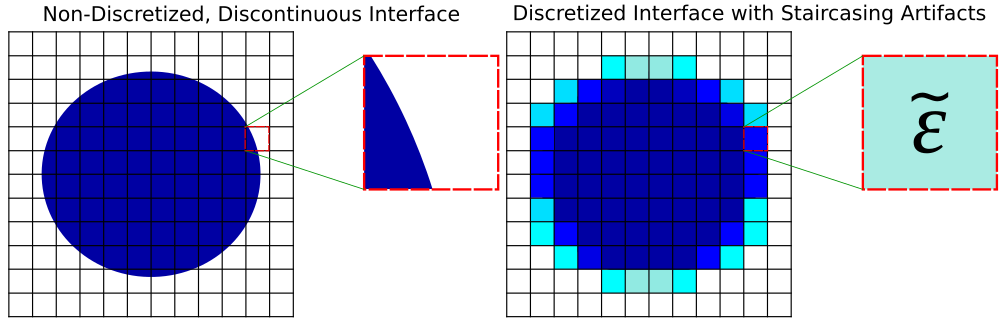
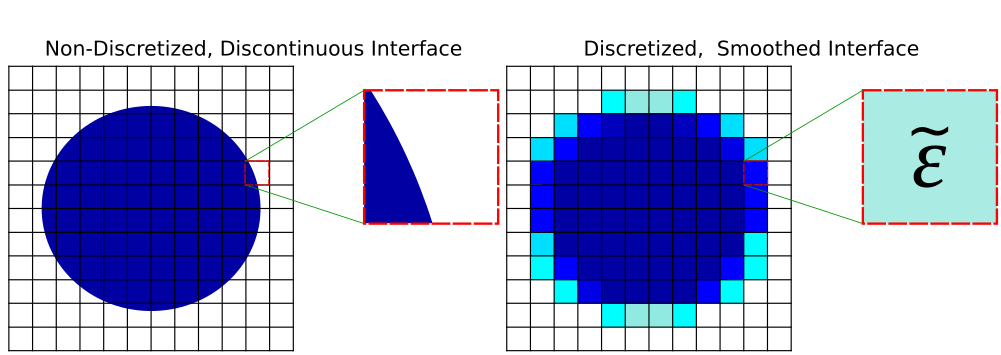
additional notes for supbixel smoothing in docs

diff --git a/doc/docs/Subpixel_Smoothing.md b/doc/docs/Subpixel_Smoothing.md
@@ -2,13 +2,23 @@
 # Subpixel Smoothing
 ---
 
-Meep uses a [second-order accurate finite-difference scheme](https://en.wikipedia.org/wiki/Finite_difference_method#Accuracy_and_order) for discretizing [Maxwell's equations](Introduction.md#maxwells-equations). This means that the results from Meep converge to the "exact" result from the non-discretized (i.e., continuous) system quadratically with the grid resolution $\Delta x$. However, this second-order error $\mathcal{O}(\Delta x^2)$ is generally spoiled to first-order error $\mathcal{O}(\Delta x)$ if the discretization involves a *discontinuous* material boundary (similar to [Gibbs phenomenon](https://en.wikipedia.org/wiki/Gibbs_phenomenon) in signal processing). Moreover, directly discretizing a discontinuity in $\varepsilon$ or $\mu$ leads to "stairstepped" interfaces that can only be varied in discrete jumps of one pixel. Meep solves both of these problems by smoothing $\varepsilon$ and $\mu$: before discretizing, discontinuities are smoothed into continuous transitions over a distance of one pixel $\Delta x$, using a second-order accurate averaging procedure summarized [below](#smoothed-permittivity-tensor-via-perturbation-theory). This subpixel smoothing enables the discretized solution to converge as quickly as possible to the exact solution as the `resolution` increases.
+Meep uses a [second-order accurate finite-difference scheme](https://en.wikipedia.org/wiki/Finite_difference_method#Accuracy_and_order) for discretizing [Maxwell's equations](Introduction.md#maxwells-equations). This means that the results from Meep converge to the "exact" result from the non-discretized (i.e., continuous) system quadratically with the grid resolution $\Delta x$. However, this second-order error $\mathcal{O}(\Delta x^2)$ is generally spoiled to first-order error $\mathcal{O}(\Delta x)$ if the discretization involves a *discontinuous* material boundary. Moreover, directly discretizing a discontinuity in $\varepsilon$ or $\mu$ leads to "stairstepped" interfaces that can only be varied in discrete jumps of one voxel. Meep solves both of these problems by smoothing $\varepsilon$ and $\mu$: before discretizing, discontinuities are smoothed into continuous transitions over a distance of one voxel $\Delta x$, using a second-order accurate averaging procedure summarized [below](#smoothed-permittivity-tensor-via-perturbation-theory). Subpixel smoothing, illustrated in the following schematic, enables the discretized solution to converge as quickly as possible to the exact solution as the `resolution` increases.
 
 <center>
 ![](images/subpixel_smoothing.png)
 </center>
 
-The subpixel smoothing has four limitations: (1) it only applies to frequency-independent, lossless dielectrics (i.e., silicon at $\lambda=1.55$ μm); dispersive materials are [not supported](FAQ.md#can-subpixel-averaging-be-applied-to-dispersive-materials), (2) it can be efficiently applied to [`GeometricObject`](Python_User_Interface.md#geometricobject)s (i.e. `Block`, `Prism`, `Sphere`, etc.) but [*not* to a user-defined `material function`](FAQ.md#can-subpixel-averaging-be-applied-to-a-user-defined-material-function) which is [disabled by default](#enabling-averaging-for-material-function), (3) objects with sharp corners or edges are associated with field singularities which introduce an unavoidable error intermediate between first- and second-order, and (4) the fields directly *on* the interface are still at best first-order accurate. The improved accuracy from smoothing is therefore obtained for fields evaluated off of the interface as in the [scattered Poynting flux](Python_Tutorials/Basics.md#transmittance-spectrum-of-a-waveguide-bend) integrated over a surface away from the interface, for nonlocal properties such as [resonant frequencies](Python_Tutorials/Resonant_Modes_and_Transmission_in_a_Waveguide_Cavity.md#resonant-modes), and for overall integrals of fields and energies to which the interface contributes only $\mathcal{O}(\Delta x)$ of the integration domain.
+However, subpixel smoothing has five limitations:
+
+1. It only applies to frequency-independent, lossless dielectrics (i.e., silicon at $\lambda=1.55$ μm); dispersive materials are [not supported](FAQ.md#can-subpixel-averaging-be-applied-to-dispersive-materials). For materials with a complex-refractive index, the imaginary part is simply ignored. For materials with a frequency-dependent $\varepsilon$, only $\varepsilon_\infty$ (i.e., the infinite frequency or instantaneous response) is used. Anisotropic materials are supported.
+
+2. It can be efficiently applied to [`GeometricObject`](Python_User_Interface.md#geometricobject)s (i.e. `Block`, `Prism`, `Sphere`, etc.) which are based on a [level-set function](https://en.wikipedia.org/wiki/Level-set_method) but [*not* to a user-defined `material function`](FAQ.md#can-subpixel-averaging-be-applied-to-a-user-defined-material-function) which is [disabled by default](#enabling-averaging-for-material-function).
+
+3. Objects with sharp corners or edges are associated with field singularities which introduce an unavoidable error intermediate between first and second order.
+
+4. The fields directly on the interface are still at best first-order accurate. The improved accuracy from smoothing is therefore obtained for fields evaluated off of the interface as in the [scattered Poynting flux](Python_Tutorials/Basics.md#transmittance-spectrum-of-a-waveguide-bend) integrated over a surface away from the interface, for nonlocal properties such as [resonant frequencies](Python_Tutorials/Resonant_Modes_and_Transmission_in_a_Waveguide_Cavity.md#resonant-modes), and for overall integrals of fields and energies to which the interface contributes only $\mathcal{O}(\Delta x)$ of the integration domain.
+
+5. It is only valid when the `resolution` is fine enough such that the dielectric interfaces are locally flat within the voxel. At `resolution`s which are coarser than the geometric dimensions, the analytic theory breaks down and subpixel smoothing is no longer guaranteed to improve accuracy.
 
 [TOC]
 
@@ -23,25 +33,25 @@ $$ \tilde{\varepsilon}^{-1} = \textbf{P}\langle\varepsilon^{-1}\rangle + \big(1-
 
 </center>
 
-where $\textbf{P}$ is the projection matrix $P_{ij}=n_{i}n_{j}$ onto the normal $\vec{n}$. The $\langle\cdots\rangle$ denotes an average over the voxel $sΔx\times sΔy\times sΔz$ surrounding the grid point in question where $s$ is a smoothing diameter in grid units equal to 1/`resolution`. (This analysis assumes that the interface is approximately planar throughout the voxel, which will hold in the regime where the voxels are small compared to the geometric feature sizes.) If the initial materials are anisotropic (via `epsilon_diag` and `epsilon_offdiag`), a more complicated formula is used. The key point is that, even if the structure consists entirely of isotropic materials, the discretized structure will use anisotropic materials. Also, the smoothing will transform a discontinuous interface separating $\varepsilon_1$ and $\varepsilon_2$ into a continuously varying interface in the range [$\varepsilon_1$, $\varepsilon_2$]. For interface pixels, Meep computes the effective permittivity tensor automatically at the start of the simulation prior to time stepping via analytic expressions for the filling fraction and local normal vector. For details involving derivation of the effective permittivity tensor and its implementation in Meep/FDTD, see [Optics Letters, Vol. 36, pp. 2972-4 (2006)](https://www.osapublishing.org/ol/abstract.cfm?uri=ol-31-20-2972) and [Optics Letters, Vol. 35, pp. 2778-80 (2009)](https://www.osapublishing.org/abstract.cfm?uri=ol-34-18-2778).
+where $\textbf{P}$ is the projection matrix $P_{ij}=n_{i}n_{j}$ onto the normal $\vec{n}$. The $\langle\cdots\rangle$ denotes an average over the voxel $sΔx\times sΔy\times sΔz$ surrounding the grid point in question where $s$ is a smoothing diameter in grid units equal to 1/`resolution`. (This analysis assumes that the interface is approximately planar throughout the voxel, which will hold in the regime where the voxels are small compared to the geometric feature sizes.) If the initial materials are anisotropic (via `epsilon_diag` and `epsilon_offdiag`), a more complicated formula is used. The key point is that, even if the structure consists entirely of isotropic materials, the discretized structure will use anisotropic materials. Also, the smoothing will transform a discontinuous interface separating $\varepsilon_1$ and $\varepsilon_2$ into a continuously varying interface in the range [$\varepsilon_1$, $\varepsilon_2$]. For interface voxels, Meep computes the effective permittivity tensor automatically at the start of the simulation prior to time stepping via analytic expressions for the filling fraction and local normal vector. For details involving derivation of the effective permittivity tensor and its implementation in Meep/FDTD, see [Optics Letters, Vol. 36, pp. 2972-4 (2006)](https://www.osapublishing.org/ol/abstract.cfm?uri=ol-31-20-2972) and [Optics Letters, Vol. 35, pp. 2778-80 (2009)](https://www.osapublishing.org/abstract.cfm?uri=ol-34-18-2778).
 
 Impact on Runtime Performance
 -----------------------------
 
-Simulations involving subpixel smoothing consume more memory *at the same resolution* than no smoothing because of the additional storage of an anisotropic tensor at boundary voxels.  (In fact, to enable efficient runtime processing, the additional tensor storage is required for every voxel in the enclosing rectangular "chunk" of pixels for that processor.) Each anisotropic tensor is comprised of six floating point numbers (from the symmetric 3$\times$3 matrix). By comparison, no smoothing involves storing only three floating point numbers at all grid points corresponding to the diagonal entries of $\varepsilon$ or $\mu$. Also, anisotropic tensors will tend to slow down the time-stepping rate due to the additional off-diagonal field components that need to be fetched and included when updating each field component.  On the other hand, anisotropic smoothing often allows one to use lower resolution than would be required for the same accuracy without smoothing.
+Simulations involving subpixel smoothing consume more memory *at the same resolution* than no smoothing because of the additional storage of an anisotropic tensor at boundary voxels.  (In fact, to enable efficient runtime processing, the additional tensor storage is required for every voxel in the enclosing rectangular "chunk" of voxels for that processor.) Each anisotropic tensor is comprised of six floating point numbers (from the symmetric 3$\times$3 matrix). By comparison, no smoothing involves storing only three floating point numbers at all grid points corresponding to the diagonal entries of $\varepsilon$ or $\mu$. Also, anisotropic tensors will tend to slow down the time-stepping rate due to the additional off-diagonal field components that need to be fetched and included when updating each field component.  On the other hand, anisotropic smoothing often allows one to use lower resolution than would be required for the same accuracy without smoothing.
 
 In [parallel simulations](Parallel_Meep.md), each [chunk](Chunks_and_Symmetry.md) computes the effective permittivity separately for its owned voxels. This means that the time required for the grid initialization (`set_epsilon` in the output) should typically scale [linearly with the number of processors](FAQ.md#should-i-expect-linear-speedup-from-the-parallel-meep). The same is true even when subpixel smoothing is disabled.
 
 Continuously Varying Shapes and Results
 ---------------------------------------
 
-A key feature of Meep's subpixel smoothing, particularly relevant for shape optimization (i.e., [Applied Physics Letters, Vol. 104, 091121, 2014](https://aip.scitation.org/doi/abs/10.1063/1.4867892) ([pdf](http://ab-initio.mit.edu/~oskooi/papers/Oskooi14_tandem.pdf))), is that continuously varying the `geometry` yields continuously varying results. This is demonstrated for a ring resonator: as the radius increases, the frequency of a resonant $H_z$-polarized mode decreases. Note: unlike the example in [Tutorial/Basics/Modes of a Ring Resonator](Python_Tutorials/Basics.md#modes-of-a-ring-resonator) involving $E_z$-polarized modes where the electric fields are always continuous (i.e., parallel to the interface), this example involves discontinuous fields. Also, the ring geometry contains no sharp corners/edges which tend to produce field singularities that degrade the error. The simulation script is shown below. The inner ring radius is varied from 1.8 to 2.0 μm in gradations of 0.005 μm. The ring width is constant (1 μm). The resolution is 10 pixels/μm. The gradations are therefore well below pixel dimensions.
+A key feature of Meep's subpixel smoothing, particularly relevant for shape optimization (i.e., [Applied Physics Letters, Vol. 104, 091121 (2014)](https://aip.scitation.org/doi/abs/10.1063/1.4867892) ([pdf](http://ab-initio.mit.edu/~oskooi/papers/Oskooi14_tandem.pdf))), is that continuously varying the `geometry` yields continuously varying results. This is demonstrated for a ring resonator: as the radius increases, the frequency of a resonant $H_z$-polarized mode decreases. Note: unlike the example in [Tutorial/Basics/Modes of a Ring Resonator](Python_Tutorials/Basics.md#modes-of-a-ring-resonator) involving $E_z$-polarized modes where the electric fields are always continuous (i.e., parallel to the interface), this example involves discontinuous fields. Also, the ring geometry contains no sharp corners/edges which tend to produce field singularities that degrade the error. The simulation script is shown below. The inner ring radius is varied from 1.8 to 2.0 μm in gradations of 0.005 μm. The ring width is constant (1 μm). The resolution is 10 voxels/μm. The gradations are therefore well below voxel dimensions.
 
 ```py
 import meep as mp
 import numpy as np
 
-resolution = 10         # pixels/μm
+resolution = 10         # voxels/μm
 
 n = 3.4                 # index of waveguide
 w = 1                   # width of waveguide
@@ -90,7 +100,7 @@ for rad in np.arange(1.800,2.001,0.005):
     sim.reset_meep()
 ```
 
-A plot of the resonant frequency versus the ring radius is shown below for subpixel smoothing (red) and no smoothing (blue). Included for reference is the "exact" result (black) computed using *no smoothing* at a resolution of 60 pixels/μm. The no-smoothing result shows "staircasing" effects which are artifacts of the discretization. The subpixel-smoothing result varies continuously with the ring radius similar to the high-resolution result which is at a resolution six times larger. The inset shows the scalar $H_z$ field profile of the resonant mode for a structure with inner radius of 1.9 μm.
+A plot of the resonant frequency versus the ring radius is shown below for subpixel smoothing (red) and no smoothing (blue). Included for reference is the "exact" result (black) computed using *no smoothing* at a resolution of 60 voxels/μm. The no-smoothing result shows "staircasing" effects which are artifacts of the discretization. The subpixel-smoothing result varies continuously with the ring radius similar to the high-resolution result which is at a resolution six times larger. The inset shows the scalar $H_z$ field profile of the resonant mode for a structure with inner radius of 1.9 μm.
 
 This particular resonant mode has a [quality (Q) factor](https://en.wikipedia.org/wiki/Q_factor) of ~10<sup>7</sup> at a frequency of 0.25 and radius of 2.0 μm. This means that roughly 4x10<sup>7</sup> optical periods are required to accurately resolve the field decay due to the Fourier uncertainty relation. Instead, [`Harminv`](Python_User_Interface.md#harminv) can resolve the $Q$ using just ~1000 periods. This is nearly a four orders of magnitude reduction in the run time.
 
@@ -98,7 +108,7 @@ This particular resonant mode has a [quality (Q) factor](https://en.wikipedia.or
 ![](images/ring_vary_radius.png)
 </center>
 
-To compare the convergence rate of the discretization error, the following plot shows the error in the resonant frequency (relative to the "exact" result at a resolution of 300 pixels/μm) as a function of the grid resolution for a ring geometry with a fixed inner radius of 2.0 μm. The no-smoothing results have a linear error due to the stairstepped interface discontinuities. The subpixel-smoothing results have roughly second-order convergence.
+To compare the convergence rate of the discretization error, the following plot shows the error in the resonant frequency (relative to the "exact" result at a resolution of 300 voxels/μm) as a function of the grid resolution for a ring geometry with a fixed inner radius of 2.0 μm. The no-smoothing results have a linear error due to the stairstepped interface discontinuities. The subpixel-smoothing results have roughly second-order convergence.
 
 <center>
 ![](images/ring_subpixel_smoothing_rate.png)

diff --git a/doc/docs/FAQ.md b/doc/docs/FAQ.md
@@ -359,7 +359,7 @@ Subpixel averaging affects pixels that contain **at most one** object interface.
 
 ### Can subpixel averaging be applied to a user-defined material function?
 
-Yes but its performance tends to be slow. Subpixel averaging is performed by default (`eps_averaging=True`) for [`GeometricObject`](Python_User_Interface.md#geometricobject)s (e.g. `Cylinder`, `Block`, `Prism`, etc.) where the material filling fraction and normal vector of boundary pixels, which are used to form the [effective permittivity](Subpixel_Smoothing.md#smoothed-permittivity-tensor-via-perturbation-theory), can be computed analytically. This procedure typically takes a few seconds for a 3d cell. Computing these quantities for a user-defined material function using adaptive numerical integration can be *very* slow (minutes, hours) and also less accurate than the analytic approach. As a result, simulations involving a discontinuous `material_function` may require disabling subpixel averaging (the default) and increasing the `resolution` for accurate results. For an example, see [Subpixel Smoothing/Enabling Averaging for Material Function](Subpixel_Smoothing.md#enabling-averaging-for-material-function).
+Yes but its performance tends to be slow. Subpixel averaging is performed by default (`eps_averaging=True`) for [`GeometricObject`](Python_User_Interface.md#geometricobject)s (e.g. `Cylinder`, `Block`, `Prism`, etc.) where the material filling fraction and normal vector of boundary pixels, which are used to form the [effective permittivity](Subpixel_Smoothing.md#smoothed-permittivity-tensor-via-perturbation-theory), can be computed analytically using a [level-set function](https://en.wikipedia.org/wiki/Level-set_method). This procedure typically takes a few seconds for a 3d cell. Computing these quantities for a user-defined material function using adaptive numerical integration can be *very* slow (minutes, hours) and also less accurate than the analytic approach. As a result, simulations involving a discontinuous `material_function` may require disabling subpixel averaging (the default) and increasing the `resolution` for accurate results. For an example, see [Subpixel Smoothing/Enabling Averaging for Material Function](Subpixel_Smoothing.md#enabling-averaging-for-material-function).
 
 Also, fast and accurate subpixel smoothing is available for the [`MaterialGrid`](Python_User_Interface.md#materialgrid) which is based on an analytic formulation.
 
@@ -388,9 +388,11 @@ For more details on Meep's load balancing features as well as some performance m
 
 ### Why are simulations involving Fourier-transformed fields slow?
 
-The [discrete time Fourier transform](https://en.wikipedia.org/wiki/Discrete-time_Fourier_transform) (DTFT) of the fields, which is necessary for computing the [Poynting flux](Python_User_Interface.md#flux-spectra), [local density of states](Python_User_Interface.md#ldos-spectra) (LDOS), [near to far field transformation](Python_User_Interface.md#near-to-far-field-spectra), etc., is accumulated at every time step for every point in the [FluxRegion](Python_User_Interface.md#fluxregion). The DTFT computation is parallelized but only in the sense that each processor computes the DTFT fields at points in its own [chunk](Chunks_and_Symmetry.md) of the grid. If the division of the grid among processors into approximately equal-sized chunks (which is the default specified by `split_chunks_evenly=True`) allocates most of the points where the DTFT fields are computed to one processor, it is *not* going to parallelize.
+The [discrete time Fourier transform](https://en.wikipedia.org/wiki/Discrete-time_Fourier_transform) (DTFT) of the fields, which is necessary for computing the [Poynting flux](Python_User_Interface.md#flux-spectra), [local density of states](Python_User_Interface.md#ldos-spectra) (LDOS), [near to far field transformation](Python_User_Interface.md#near-to-far-field-spectra), etc., is typically accumulated at every time step for every point in the [FluxRegion](Python_User_Interface.md#fluxregion). The DTFT computation is parallelized but only in the sense that each processor computes the DTFT fields at points in its own [chunk](Chunks_and_Symmetry.md) of the grid. If the division of the grid among processors into approximately equal-sized chunks (which is the default specified by `split_chunks_evenly=True`) allocates most of the points where the DTFT fields are computed to one processor, it is *not* going to parallelize.
 
-To improve [load-balancing](https://en.wikipedia.org/wiki/Load_balancing_(computing)), the parallelization can be made to take the DTFT computation into account by specifying `split_chunks_evenly=False`. This option divides the grid into [chunks](Chunks_and_Symmetry.md) with nearly-equal *cost* rather than *size* such that the region in which the DTFT fields are computed is optimally partitioned among the processors.
+The DTFT computation can be sped up significantly using decimation of the time-series inputs. By default, this feature is enabled for all monitors (using the parameter `decimation_factor=0`). The optimal decimation factor is chosen automatically based on the frequency content of the sources and monitors.
+
+To improve [load balancing](https://en.wikipedia.org/wiki/Load_balancing_(computing)), the parallelization can be made to take the DTFT computation into account by specifying `split_chunks_evenly=False`. This option divides the grid into [chunks](Chunks_and_Symmetry.md) with nearly-equal *cost* rather than *size* such that the region in which the DTFT fields are computed is optimally partitioned among the processors.
 
 [Synchronization](Synchronizing_the_Magnetic_and_Electric_Fields.md) of the fields (i.e., for `add_flux`, `add_energy`, `add_near2far`, etc.), which is both expensive and unnecessary, is *not* performed or required for second-order accuracy when accumulating the Fourier transforms. In the [Fourier summation](Introduction.md#transmittancereflectance-spectra), you multiply the field by $\exp(i\omega t)$ and add the product (multiplied by $\Delta t$) to the Fourier amplitude. The value of "t" is simply different for the E and H fields because they are staggered in time by half a timestep.
 

diff --git a/doc/docs/Parallel_Meep.md b/doc/docs/Parallel_Meep.md
@@ -99,7 +99,7 @@ Technical Details
 
 When you run Meep under MPI, the following is a brief description of what is happening behind the scenes. For the most part, you shouldn't need to know this stuff. Just use the same Python/Scheme script file exactly as you would for a uniprocessor simulation.
 
-First, every MPI process executes the Python/Scheme file in parallel. The processes communicate however, to only perform one simulation in sync with one another. In particular, the cell is divided into "chunks," one per process, to roughly equally divide the work and the memory. For additional details, see [Chunks and Symmetry](Chunks_and_Symmetry.md) as well as Section 2.2 ("Grid chunks and owned points") of [Computer Physics Communications, Vol. 181, pp. 687-702, 2010](http://ab-initio.mit.edu/~oskooi/papers/Oskooi10.pdf).
+First, every MPI process executes the Python/Scheme file in parallel. The processes communicate however, to only perform one simulation in sync with one another. In particular, the cell is divided into "chunks," one per process, to roughly equally divide the work and the memory. For additional details, see [Chunks and Symmetry](Chunks_and_Symmetry.md) as well as Section 2.2 ("Grid chunks and owned points") of [Computer Physics Communications, Vol. 181, pp. 687-702 (2010)](http://ab-initio.mit.edu/~oskooi/papers/Oskooi10.pdf).
 
 When you time-step via Python's `meep.Simulation.run(until=...)` or Scheme's `run-until`, etc., the chunks are time-stepped in parallel, communicating the values of the pixels on their boundaries with one another. In general, any Meep function that performs some collective operation over the whole cell or a large portion thereof is parallelized, including: time-stepping, HDF5 I/O, accumulation of flux spectra, and field integration via `integrate_field_function` (Python) or `integrate-field-function` (Scheme), although the *results* are communicated to all processes.
 
